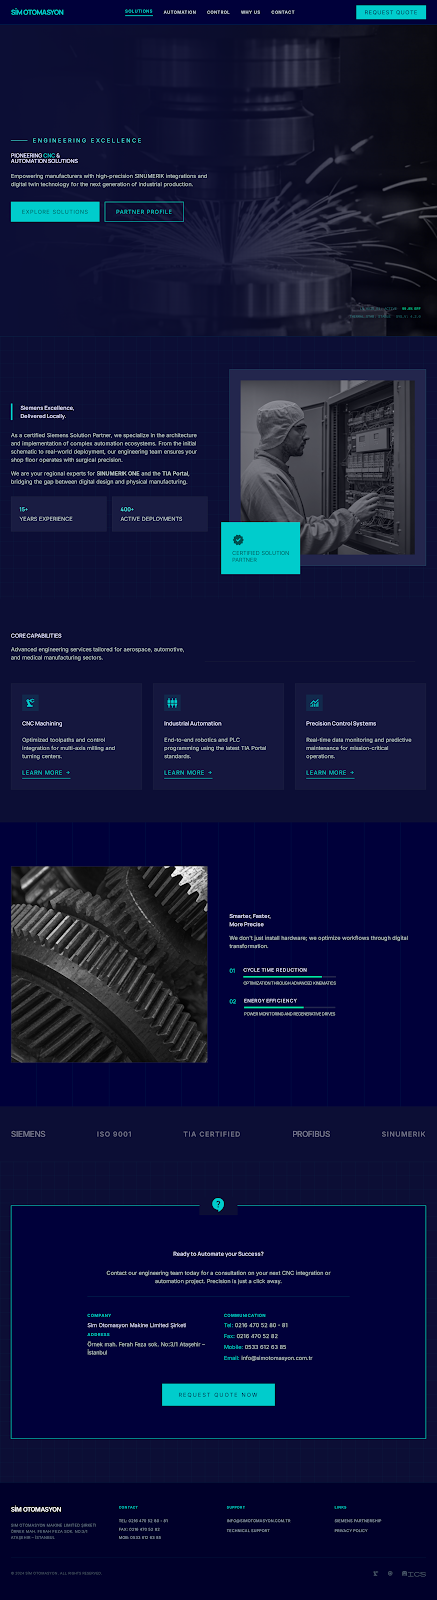
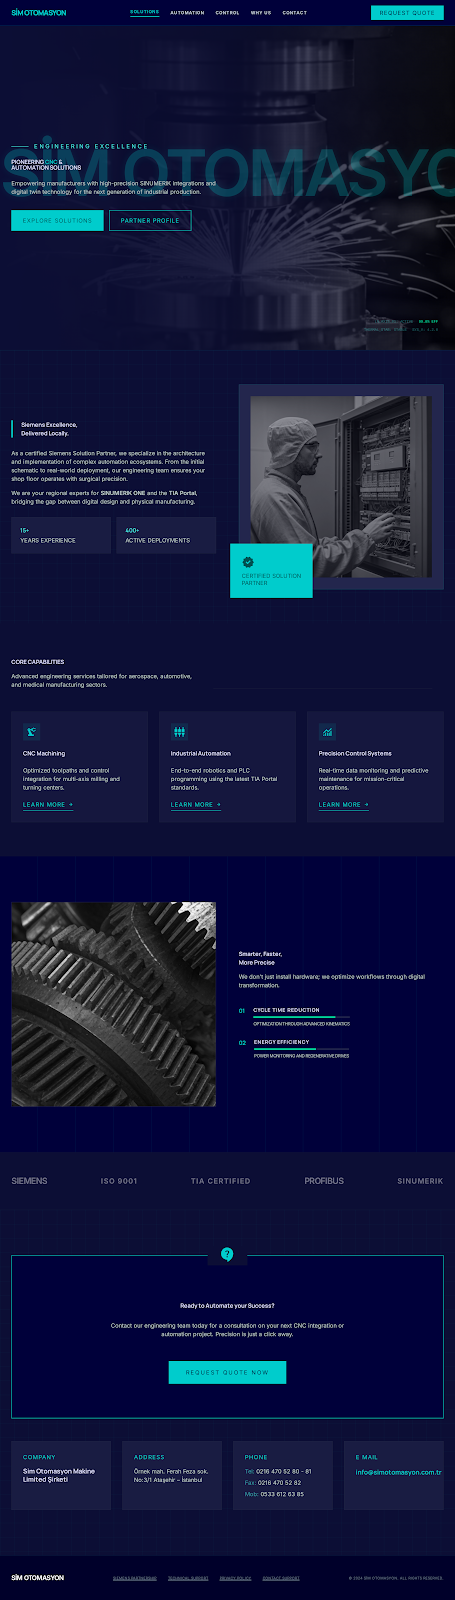
Add files via upload

diff --git a/index.html b/index.html
@@ -5,7 +5,6 @@
 <meta content="width=device-width, initial-scale=1.0" name="viewport"/>
 <script src="https://cdn.tailwindcss.com?plugins=forms,container-queries"></script>
 <link href="https://fonts.googleapis.com/css2?family=Inter:wght@400;600&amp;family=Manrope:wght@600;700;800&amp;family=Material+Symbols+Outlined:wght,FILL@100..700,0..1&amp;display=swap" rel="stylesheet"/>
-<link href="https://fonts.googleapis.com/css2?family=Material+Symbols+Outlined:wght,FILL@100..700,0..1&amp;display=swap" rel="stylesheet"/>
 <style>
         .material-symbols-outlined {
             font-variation-settings: 'FILL' 0, 'wght' 400, 'GRAD' 0, 'opsz' 24;
@@ -18,6 +17,9 @@
         .half-tone-overlay {
             background-image: radial-gradient(rgba(0, 0, 58, 0.4) 2px, transparent 2px);
             background-size: 4px 4px;
+        }
+        html {
+            scroll-behavior: smooth;
         }
     </style>
 <script id="tailwind-config">
@@ -122,11 +124,11 @@
 <a class="font-manrope uppercase tracking-widest text-xs font-semibold text-slate-300 hover:text-[#00CCCC] hover:bg-white/5 transition-all duration-200 ease-in-out" href="#" style="">Automation</a>
 <a class="font-manrope uppercase tracking-widest text-xs font-semibold text-slate-300 hover:text-[#00CCCC] hover:bg-white/5 transition-all duration-200 ease-in-out" href="#" style="">Control</a>
 <a class="font-manrope uppercase tracking-widest text-xs font-semibold text-slate-300 hover:text-[#00CCCC] hover:bg-white/5 transition-all duration-200 ease-in-out" href="#" style="">Why Us</a>
-<a class="font-manrope uppercase tracking-widest text-xs font-semibold text-slate-300 hover:text-[#00CCCC] hover:bg-white/5 transition-all duration-200 ease-in-out" href="#" style="">Contact</a>
+<a class="font-manrope uppercase tracking-widest text-xs font-semibold text-slate-300 hover:text-[#00CCCC] hover:bg-white/5 transition-all duration-200 ease-in-out" href="#contact-section" style="">Contact</a>
 </nav>
-<button class="bg-[#00CCCC] text-[#00003A] px-6 py-2 font-label-sm uppercase tracking-widest hover:bg-[#00e1a3] transition-all duration-200" style="">
+<a class="bg-[#00CCCC] text-[#00003A] px-6 py-2 font-label-sm uppercase tracking-widest hover:bg-[#00e1a3] transition-all duration-200 inline-block" href="#contact-section" style="">
                 Request Quote
-            </button>
+            </a>
 </div>
 </header>
 <main class="pt-16">
@@ -137,8 +139,9 @@
 <div class="absolute inset-0 half-tone-overlay opacity-30"></div>
 <div class="absolute inset-0 bg-gradient-to-r from-background via-background/80 to-transparent"></div>
 </div>
-<div class="relative z-10 max-w-[1440px] mx-auto px-8 w-full"><div class="absolute -top-12 left-0 w-full flex justify-start -z-10 pointer-events-none select-none overflow-hidden">
-<span class="text-[180px] font-extrabold font-display uppercase tracking-tighter text-white opacity-[0.08] whitespace-nowrap">
+<div class="relative z-10 max-w-[1440px] mx-auto px-8 w-full">
+<div class="absolute -top-12 left-0 w-full flex justify-start -z-10 pointer-events-none select-none overflow-hidden">
+<span class="text-[180px] font-extrabold font-display uppercase tracking-tighter whitespace-nowrap text-primary-container" style="opacity: 0.25; text-shadow: rgba(0, 204, 204, 0.4) 0px 0px 20px; font-weight: 900;">
         SİM OTOMASYON
     </span>
 </div>
@@ -314,10 +317,10 @@
 </div>
 </div>
 </section>
-<!-- Contact/CTA Section -->
-<section class="py-32 technical-grid">
+<!-- Contact CTA Section -->
+<section class="py-32 technical-grid" id="contact-section">
 <div class="max-w-[1440px] mx-auto px-8">
-<div class="bg-[#00003A] border border-primary-container p-12 md:p-24 text-center space-y-8 relative">
+<div class="bg-[#00003A] border border-primary-container p-12 md:p-24 text-center space-y-8 relative mb-16">
 <div class="absolute top-0 left-1/2 -translate-x-1/2 -translate-y-1/2 bg-background px-8">
 <span class="material-symbols-outlined text-5xl text-primary-container" style="">contact_support</span>
 </div>
@@ -326,9 +329,32 @@
                         Contact our engineering team today for a consultation on your next CNC integration or automation project. Precision is just a click away.
                     </p>
 <div class="pt-8">
-<button class="bg-[#00CCCC] text-[#00003A] px-12 py-5 font-label-sm uppercase tracking-[0.2em] hover:bg-[#00e1a3] transition-all hover:scale-105" style="">
+<a class="bg-[#00CCCC] text-[#00003A] px-12 py-5 font-label-sm uppercase tracking-[0.2em] hover:bg-[#00e1a3] transition-all hover:scale-105 inline-block" href="mailto:info@simotomasyon.com.tr" style="">
                             Request Quote Now
-                        </button>
+                        </a>
+</div>
+</div>
+<!-- Detailed Contact Info Section -->
+<div class="grid md:grid-cols-2 lg:grid-cols-4 gap-8">
+<div class="bg-surface-container p-8 border border-outline-variant/20">
+<h4 class="text-primary-container font-label-sm uppercase tracking-widest mb-4" style="">Company</h4>
+<p class="font-headline-md text-lg leading-tight" style="">Sim Otomasyon Makine Limited Şirketi</p>
+</div>
+<div class="bg-surface-container p-8 border border-outline-variant/20 lg:col-span-1">
+<h4 class="text-primary-container font-label-sm uppercase tracking-widest mb-4" style="">Address</h4>
+<p class="text-on-surface-variant font-body-md" style="">Örnek mah. Ferah Feza sok.<br/>No:3/1 Ataşehir – İstanbul</p>
+</div>
+<div class="bg-surface-container p-8 border border-outline-variant/20">
+<h4 class="text-primary-container font-label-sm uppercase tracking-widest mb-4" style="">Phone</h4>
+<div class="space-y-2 text-on-surface-variant font-body-md">
+<p class="" style=""><span class="text-primary/60" style="">Tel:</span> 0216 470 52 80 - 81</p>
+<p class="" style=""><span class="text-primary/60" style="">Fax:</span> 0216 470 52 82</p>
+<p class="" style=""><span class="text-primary/60" style="">Mob:</span> 0533 612 63 85</p>
+</div>
+</div>
+<div class="bg-surface-container p-8 border border-outline-variant/20">
+<h4 class="text-primary-container font-label-sm uppercase tracking-widest mb-4" style="">e maıl</h4>
+<a class="text-primary-container font-headline-md text-lg hover:text-secondary transition-colors whitespace-nowrap" href="mailto:info@simotomasyon.com.tr" style="">info@simotomasyon.com.tr</a>
 </div>
 </div>
 </div>
@@ -342,7 +368,7 @@
 <a class="font-manrope text-[10px] uppercase tracking-wider text-slate-500 hover:text-[#00CCCC] underline decoration-2 transition-opacity duration-300" href="#" style="">Siemens Partnership</a>
 <a class="font-manrope text-[10px] uppercase tracking-wider text-slate-500 hover:text-[#00CCCC] underline decoration-2 transition-opacity duration-300" href="#" style="">Technical Support</a>
 <a class="font-manrope text-[10px] uppercase tracking-wider text-slate-500 hover:text-[#00CCCC] underline decoration-2 transition-opacity duration-300" href="#" style="">Privacy Policy</a>
-<a class="font-manrope text-[10px] uppercase tracking-wider text-slate-500 hover:text-[#00CCCC] underline decoration-2 transition-opacity duration-300" href="#" style="">Contact Support</a>
+<a class="font-manrope text-[10px] uppercase tracking-wider text-slate-500 hover:text-[#00CCCC] underline decoration-2 transition-opacity duration-300" href="#contact-section" style="">Contact Support</a>
 </div>
 <div class="font-manrope text-[10px] uppercase tracking-wider text-slate-500" style="">© 2024 SİM OTOMASYON. ALL RIGHTS RESERVED.</div>
 </div>
